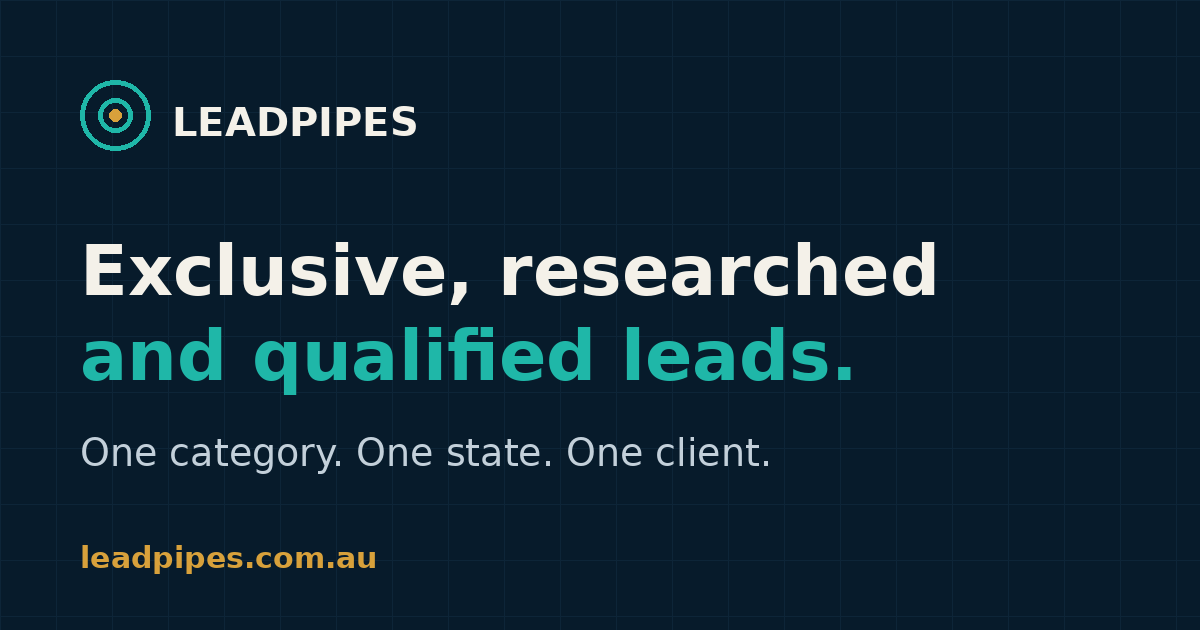
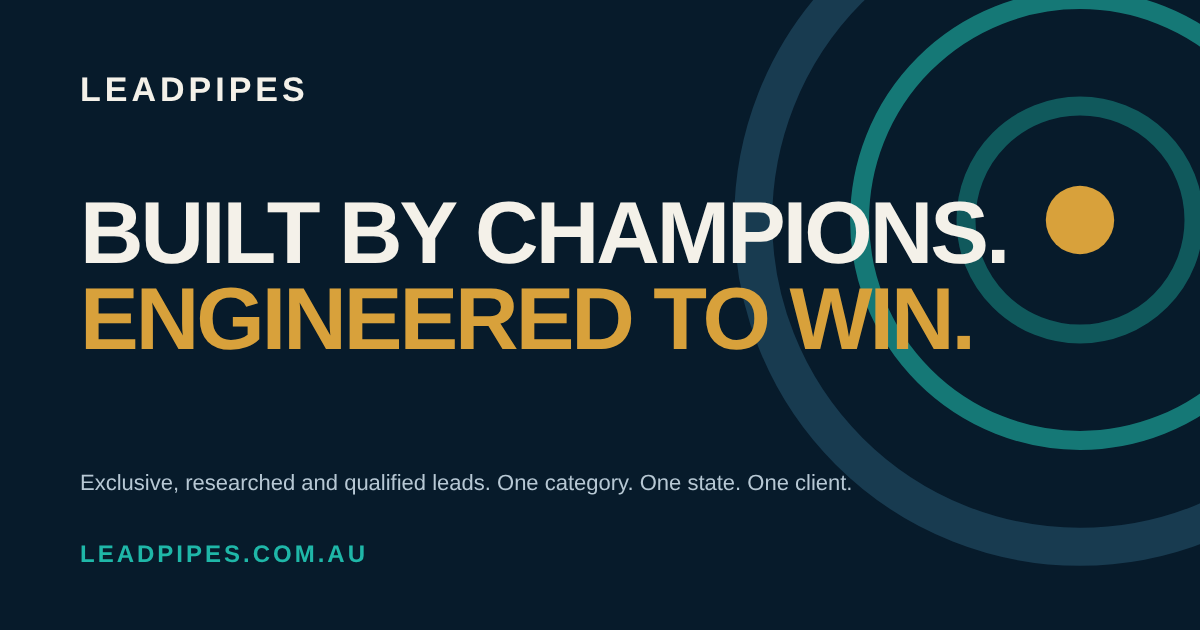
Make the mission statement 'Built by champions. Engineered to win.' the lead of the site: top bar on every page, hero, mission section, page title and share image; homepage founder line reworded
Claude-Session: https://claude.ai/code/session_01RcfpsSNJZTtoGcThxQHfeA

diff --git a/index.html b/index.html
@@ -3,22 +3,22 @@
 <head>
 <meta charset="utf-8">
 <meta name="viewport" content="width=device-width,initial-scale=1">
-<title>LeadPipes | Exclusive Lead Generation for Australian Businesses</title>
+<title>LeadPipes | Built by Champions. Engineered to Win. Exclusive Leads</title>
 <meta name="description" content="Exclusive, researched and qualified leads for Australian businesses that know how to close. One category, one state, one client. Built by champions. Engineered to win.">
 <meta name="robots" content="index,follow">
 <link rel="canonical" href="https://leadpipes.com.au/">
 <meta property="og:type" content="website">
 <meta property="og:locale" content="en_AU">
 <meta property="og:site_name" content="LeadPipes">
-<meta property="og:title" content="LeadPipes | Exclusive Lead Generation for Australian Businesses">
+<meta property="og:title" content="LeadPipes | Built by Champions. Engineered to Win. Exclusive Leads">
 <meta property="og:description" content="Exclusive, researched and qualified leads for Australian businesses that know how to close. One category, one state, one client. Built by champions. Engineered to win.">
 <meta property="og:url" content="https://leadpipes.com.au/">
 <meta property="og:image" content="https://leadpipes.com.au/assets/og-image.png">
 <meta property="og:image:width" content="1200">
 <meta property="og:image:height" content="630">
-<meta property="og:image:alt" content="LeadPipes. Exclusive, researched and qualified leads. One category, one state, one client.">
+<meta property="og:image:alt" content="LeadPipes. Built by champions. Engineered to win. Exclusive, researched and qualified leads. One category, one state, one client.">
 <meta name="twitter:card" content="summary_large_image">
-<meta name="twitter:title" content="LeadPipes | Exclusive Lead Generation for Australian Businesses">
+<meta name="twitter:title" content="LeadPipes | Built by Champions. Engineered to Win. Exclusive Leads">
 <meta name="twitter:description" content="Exclusive, researched and qualified leads for Australian businesses that know how to close. One category, one state, one client. Built by champions. Engineered to win.">
 <meta name="twitter:image" content="https://leadpipes.com.au/assets/og-image.png">
 <meta name="theme-color" content="#071b2b">
@@ -30,6 +30,7 @@
 <body>
 <a class="skip" href="#main">Skip to content</a>
 <header class="nav">
+  <div class="mission-bar"><span>Built by champions.</span> <span class="accent">Engineered to win.</span></div>
   <div class="wrap nav-in">
     <a class="logo" href="/" aria-label="LeadPipes home">
       <svg viewBox="0 0 34 34" aria-hidden="true" focusable="false"><circle cx="17" cy="17" r="15" fill="none" stroke="#1fb7a8" stroke-width="2"/><circle cx="17" cy="17" r="8" fill="none" stroke="#1fb7a8" stroke-width="2"/><circle cx="17" cy="17" r="2.6" fill="#d8a13b"/></svg>
@@ -47,6 +48,7 @@
 <main id="main">
 <section class="hero">
   <div class="wrap">
+    <p class="mission-hero">Built by champions.<span class="accent">Engineered to win.</span></p>
     <p class="eyebrow">Exclusive lead generation for Australian businesses</p>
     <h1>We don&rsquo;t sell <span class="dim">lists.</span><br>We create <span class="accent">opportunity.</span></h1>
     <p class="lead">Exclusive lead generation for Australian businesses. One category, one state, one client, with every lead researched, qualified and handed over with the context to close. No shared leads. No volume theatre.</p>
@@ -56,6 +58,17 @@
     </div>
     <p class="hero-link"><a class="textlink" href="/how-it-works.html">See how a handover works</a></p>
     <div class="assure"><span>Exclusive per category and state</span><span>Reviewed before handover</span><span>Built around your ideal customer</span></div>
+  </div>
+</section>
+
+<section class="mission" id="mission">
+  <div class="wrap">
+    <p class="eyebrow">Our mission</p>
+    <h2 class="mission-line">Built by champions.<span class="accent">Engineered to win.</span></h2>
+    <div class="two">
+      <p>It is not a slogan. It is the standard we run LeadPipes to, and it is what sets us apart. Very few businesses are led by someone who has competed at the highest level and then carried that discipline into commercial work.</p>
+      <p>Elite performance is a system: a clear standard, honest measurement and the discipline to hold it every day. Darren Harry OAM, an ex-professional cyclist, built LeadPipes on that system. It shapes how we qualify, how we hand over and the targets we hold ourselves to.</p>
+    </div>
   </div>
 </section>
 
@@ -153,7 +166,7 @@
 
 <section class="white">
   <div class="wrap founder">
-    <p><b>Run by Darren Harry OAM.</b> Paralympic gold medallist and four-time World Champion cyclist, with nine years in commercial renewables sales. You deal with the person whose name is on the business.</p>
+    <p><b>Run by Darren Harry OAM.</b> Former professional cyclist who holds himself and his team to very high standards, with nine years in commercial renewables sales. You deal with the person whose name is on the business.</p>
     <a class="btn" href="/book.html">Book a discovery call</a>
   </div>
 </section>

diff --git a/src/pages/index.html b/src/pages/index.html
@@ -1,5 +1,6 @@
 <section class="hero">
   <div class="wrap">
+    <p class="mission-hero">Built by champions.<span class="accent">Engineered to win.</span></p>
     <p class="eyebrow">Exclusive lead generation for Australian businesses</p>
     <h1>We don&rsquo;t sell <span class="dim">lists.</span><br>We create <span class="accent">opportunity.</span></h1>
     <p class="lead">Exclusive lead generation for Australian businesses. One category, one state, one client, with every lead researched, qualified and handed over with the context to close. No shared leads. No volume theatre.</p>
@@ -9,6 +10,17 @@
     </div>
     <p class="hero-link"><a class="textlink" href="/how-it-works.html">See how a handover works</a></p>
     <div class="assure"><span>Exclusive per category and state</span><span>Reviewed before handover</span><span>Built around your ideal customer</span></div>
+  </div>
+</section>
+
+<section class="mission" id="mission">
+  <div class="wrap">
+    <p class="eyebrow">Our mission</p>
+    <h2 class="mission-line">Built by champions.<span class="accent">Engineered to win.</span></h2>
+    <div class="two">
+      <p>It is not a slogan. It is the standard we run LeadPipes to, and it is what sets us apart. Very few businesses are led by someone who has competed at the highest level and then carried that discipline into commercial work.</p>
+      <p>Elite performance is a system: a clear standard, honest measurement and the discipline to hold it every day. Darren Harry OAM, an ex-professional cyclist, built LeadPipes on that system. It shapes how we qualify, how we hand over and the targets we hold ourselves to.</p>
+    </div>
   </div>
 </section>
 
@@ -103,7 +115,7 @@
 
 <section class="white">
   <div class="wrap founder">
-    <p><b>Run by Darren Harry OAM.</b> Paralympic gold medallist and four-time World Champion cyclist, with nine years in commercial renewables sales. You deal with the person whose name is on the business.</p>
+    <p><b>Run by Darren Harry OAM.</b> Former professional cyclist who holds himself and his team to very high standards, with nine years in commercial renewables sales. You deal with the person whose name is on the business.</p>
     <a class="btn" href="/book.html">Book a discovery call</a>
   </div>
 </section>

diff --git a/lp/kitchens-bathrooms-renovations/index.html b/lp/kitchens-bathrooms-renovations/index.html
@@ -16,7 +16,7 @@
 <meta property="og:image" content="https://leadpipes.com.au/assets/og-image.png">
 <meta property="og:image:width" content="1200">
 <meta property="og:image:height" content="630">
-<meta property="og:image:alt" content="LeadPipes. Exclusive, researched and qualified leads. One category, one state, one client.">
+<meta property="og:image:alt" content="LeadPipes. Built by champions. Engineered to win. Exclusive, researched and qualified leads. One category, one state, one client.">
 <meta name="twitter:card" content="summary_large_image">
 <meta name="twitter:title" content="Lead Generation for Kitchen, Bathroom and Renovation Businesses | LeadPipes">
 <meta name="twitter:description" content="LeadPipes works for businesses that sell kitchens, bathrooms and renovations. Business-to-business lead generation, with exclusivity agreed per category, state and client.">
@@ -29,6 +29,7 @@
 <body>
 <a class="skip" href="#main">Skip to content</a>
 <header class="nav">
+  <div class="mission-bar"><span>Built by champions.</span> <span class="accent">Engineered to win.</span></div>
   <div class="wrap nav-in">
     <a class="logo" href="/" aria-label="LeadPipes home">
       <svg viewBox="0 0 34 34" aria-hidden="true" focusable="false"><circle cx="17" cy="17" r="15" fill="none" stroke="#1fb7a8" stroke-width="2"/><circle cx="17" cy="17" r="8" fill="none" stroke="#1fb7a8" stroke-width="2"/><circle cx="17" cy="17" r="2.6" fill="#d8a13b"/></svg>

diff --git a/lp/exclusive-leads/index.html b/lp/exclusive-leads/index.html
@@ -16,7 +16,7 @@
 <meta property="og:image" content="https://leadpipes.com.au/assets/og-image.png">
 <meta property="og:image:width" content="1200">
 <meta property="og:image:height" content="630">
-<meta property="og:image:alt" content="LeadPipes. Exclusive, researched and qualified leads. One category, one state, one client.">
+<meta property="og:image:alt" content="LeadPipes. Built by champions. Engineered to win. Exclusive, researched and qualified leads. One category, one state, one client.">
 <meta name="twitter:card" content="summary_large_image">
 <meta name="twitter:title" content="Exclusive Lead Generation for Australian Businesses | LeadPipes">
 <meta name="twitter:description" content="Exclusive, researched and qualified leads for Australian businesses. One client per category per state. Book a discovery call to check whether yours is open.">
@@ -29,6 +29,7 @@
 <body>
 <a class="skip" href="#main">Skip to content</a>
 <header class="nav">
+  <div class="mission-bar"><span>Built by champions.</span> <span class="accent">Engineered to win.</span></div>
   <div class="wrap nav-in">
     <a class="logo" href="/" aria-label="LeadPipes home">
       <svg viewBox="0 0 34 34" aria-hidden="true" focusable="false"><circle cx="17" cy="17" r="15" fill="none" stroke="#1fb7a8" stroke-width="2"/><circle cx="17" cy="17" r="8" fill="none" stroke="#1fb7a8" stroke-width="2"/><circle cx="17" cy="17" r="2.6" fill="#d8a13b"/></svg>

diff --git a/lp/commercial-solar/index.html b/lp/commercial-solar/index.html
@@ -16,7 +16,7 @@
 <meta property="og:image" content="https://leadpipes.com.au/assets/og-image.png">
 <meta property="og:image:width" content="1200">
 <meta property="og:image:height" content="630">
-<meta property="og:image:alt" content="LeadPipes. Exclusive, researched and qualified leads. One category, one state, one client.">
+<meta property="og:image:alt" content="LeadPipes. Built by champions. Engineered to win. Exclusive, researched and qualified leads. One category, one state, one client.">
 <meta name="twitter:card" content="summary_large_image">
 <meta name="twitter:title" content="Commercial Solar and Energy Lead Generation for Installers | LeadPipes">
 <meta name="twitter:description" content="Qualified commercial and industrial solar opportunities for installers who can quote and close. Exclusivity is agreed per category, state and client.">
@@ -29,6 +29,7 @@
 <body>
 <a class="skip" href="#main">Skip to content</a>
 <header class="nav">
+  <div class="mission-bar"><span>Built by champions.</span> <span class="accent">Engineered to win.</span></div>
   <div class="wrap nav-in">
     <a class="logo" href="/" aria-label="LeadPipes home">
       <svg viewBox="0 0 34 34" aria-hidden="true" focusable="false"><circle cx="17" cy="17" r="15" fill="none" stroke="#1fb7a8" stroke-width="2"/><circle cx="17" cy="17" r="8" fill="none" stroke="#1fb7a8" stroke-width="2"/><circle cx="17" cy="17" r="2.6" fill="#d8a13b"/></svg>

diff --git a/lp/commercial-fitout-construction/index.html b/lp/commercial-fitout-construction/index.html
@@ -16,7 +16,7 @@
 <meta property="og:image" content="https://leadpipes.com.au/assets/og-image.png">
 <meta property="og:image:width" content="1200">
 <meta property="og:image:height" content="630">
-<meta property="og:image:alt" content="LeadPipes. Exclusive, researched and qualified leads. One category, one state, one client.">
+<meta property="og:image:alt" content="LeadPipes. Built by champions. Engineered to win. Exclusive, researched and qualified leads. One category, one state, one client.">
 <meta name="twitter:card" content="summary_large_image">
 <meta name="twitter:title" content="Lead Generation for Commercial Fit-out and Construction | LeadPipes">
 <meta name="twitter:description" content="Qualified project opportunities for commercial fit-out, construction and trade contractors. Exclusivity is agreed per category, state and client.">
@@ -29,6 +29,7 @@
 <body>
 <a class="skip" href="#main">Skip to content</a>
 <header class="nav">
+  <div class="mission-bar"><span>Built by champions.</span> <span class="accent">Engineered to win.</span></div>
   <div class="wrap nav-in">
     <a class="logo" href="/" aria-label="LeadPipes home">
       <svg viewBox="0 0 34 34" aria-hidden="true" focusable="false"><circle cx="17" cy="17" r="15" fill="none" stroke="#1fb7a8" stroke-width="2"/><circle cx="17" cy="17" r="8" fill="none" stroke="#1fb7a8" stroke-width="2"/><circle cx="17" cy="17" r="2.6" fill="#d8a13b"/></svg>

diff --git a/lp/b2b-services/index.html b/lp/b2b-services/index.html
@@ -16,7 +16,7 @@
 <meta property="og:image" content="https://leadpipes.com.au/assets/og-image.png">
 <meta property="og:image:width" content="1200">
 <meta property="og:image:height" content="630">
-<meta property="og:image:alt" content="LeadPipes. Exclusive, researched and qualified leads. One category, one state, one client.">
+<meta property="og:image:alt" content="LeadPipes. Built by champions. Engineered to win. Exclusive, researched and qualified leads. One category, one state, one client.">
 <meta name="twitter:card" content="summary_large_image">
 <meta name="twitter:title" content="Lead Generation for B2B and Professional Services Firms | LeadPipes">
 <meta name="twitter:description" content="Qualified decision-maker conversations for B2B and professional services firms. Exclusivity is agreed per category, state and client.">
@@ -29,6 +29,7 @@
 <body>
 <a class="skip" href="#main">Skip to content</a>
 <header class="nav">
+  <div class="mission-bar"><span>Built by champions.</span> <span class="accent">Engineered to win.</span></div>
   <div class="wrap nav-in">
     <a class="logo" href="/" aria-label="LeadPipes home">
       <svg viewBox="0 0 34 34" aria-hidden="true" focusable="false"><circle cx="17" cy="17" r="15" fill="none" stroke="#1fb7a8" stroke-width="2"/><circle cx="17" cy="17" r="8" fill="none" stroke="#1fb7a8" stroke-width="2"/><circle cx="17" cy="17" r="2.6" fill="#d8a13b"/></svg>

diff --git a/faq.html b/faq.html
@@ -16,7 +16,7 @@
 <meta property="og:image" content="https://leadpipes.com.au/assets/og-image.png">
 <meta property="og:image:width" content="1200">
 <meta property="og:image:height" content="630">
-<meta property="og:image:alt" content="LeadPipes. Exclusive, researched and qualified leads. One category, one state, one client.">
+<meta property="og:image:alt" content="LeadPipes. Built by champions. Engineered to win. Exclusive, researched and qualified leads. One category, one state, one client.">
 <meta name="twitter:card" content="summary_large_image">
 <meta name="twitter:title" content="Frequently Asked Questions | LeadPipes">
 <meta name="twitter:description" content="Plain answers on exclusivity, what qualified means, replacements, how leads are sourced, the Spam Act, what LeadPipes does not do, and how to start.">
@@ -30,6 +30,7 @@
 <body>
 <a class="skip" href="#main">Skip to content</a>
 <header class="nav">
+  <div class="mission-bar"><span>Built by champions.</span> <span class="accent">Engineered to win.</span></div>
   <div class="wrap nav-in">
     <a class="logo" href="/" aria-label="LeadPipes home">
       <svg viewBox="0 0 34 34" aria-hidden="true" focusable="false"><circle cx="17" cy="17" r="15" fill="none" stroke="#1fb7a8" stroke-width="2"/><circle cx="17" cy="17" r="8" fill="none" stroke="#1fb7a8" stroke-width="2"/><circle cx="17" cy="17" r="2.6" fill="#d8a13b"/></svg>

diff --git a/apply.html b/apply.html
@@ -16,7 +16,7 @@
 <meta property="og:image" content="https://leadpipes.com.au/assets/og-image.png">
 <meta property="og:image:width" content="1200">
 <meta property="og:image:height" content="630">
-<meta property="og:image:alt" content="LeadPipes. Exclusive, researched and qualified leads. One category, one state, one client.">
+<meta property="og:image:alt" content="LeadPipes. Built by champions. Engineered to win. Exclusive, researched and qualified leads. One category, one state, one client.">
 <meta name="twitter:card" content="summary_large_image">
 <meta name="twitter:title" content="Apply for a Territory | LeadPipes">
 <meta name="twitter:description" content="Tell us what you sell, where, and what you want from LeadPipes. If your category and state are open and the fit is strong, Darren replies personally.">
@@ -29,6 +29,7 @@
 <body>
 <a class="skip" href="#main">Skip to content</a>
 <header class="nav">
+  <div class="mission-bar"><span>Built by champions.</span> <span class="accent">Engineered to win.</span></div>
   <div class="wrap nav-in">
     <a class="logo" href="/" aria-label="LeadPipes home">
       <svg viewBox="0 0 34 34" aria-hidden="true" focusable="false"><circle cx="17" cy="17" r="15" fill="none" stroke="#1fb7a8" stroke-width="2"/><circle cx="17" cy="17" r="8" fill="none" stroke="#1fb7a8" stroke-width="2"/><circle cx="17" cy="17" r="2.6" fill="#d8a13b"/></svg>

diff --git a/how-it-works.html b/how-it-works.html
@@ -16,7 +16,7 @@
 <meta property="og:image" content="https://leadpipes.com.au/assets/og-image.png">
 <meta property="og:image:width" content="1200">
 <meta property="og:image:height" content="630">
-<meta property="og:image:alt" content="LeadPipes. Exclusive, researched and qualified leads. One category, one state, one client.">
+<meta property="og:image:alt" content="LeadPipes. Built by champions. Engineered to win. Exclusive, researched and qualified leads. One category, one state, one client.">
 <meta name="twitter:card" content="summary_large_image">
 <meta name="twitter:title" content="How a LeadPipes Handover Works | LeadPipes">
 <meta name="twitter:description" content="See what you receive with every lead, an illustrative sample lead pack, and the performance targets LeadPipes measures itself against.">
@@ -29,6 +29,7 @@
 <body>
 <a class="skip" href="#main">Skip to content</a>
 <header class="nav">
+  <div class="mission-bar"><span>Built by champions.</span> <span class="accent">Engineered to win.</span></div>
   <div class="wrap nav-in">
     <a class="logo" href="/" aria-label="LeadPipes home">
       <svg viewBox="0 0 34 34" aria-hidden="true" focusable="false"><circle cx="17" cy="17" r="15" fill="none" stroke="#1fb7a8" stroke-width="2"/><circle cx="17" cy="17" r="8" fill="none" stroke="#1fb7a8" stroke-width="2"/><circle cx="17" cy="17" r="2.6" fill="#d8a13b"/></svg>

diff --git a/privacy.html b/privacy.html
@@ -16,7 +16,7 @@
 <meta property="og:image" content="https://leadpipes.com.au/assets/og-image.png">
 <meta property="og:image:width" content="1200">
 <meta property="og:image:height" content="630">
-<meta property="og:image:alt" content="LeadPipes. Exclusive, researched and qualified leads. One category, one state, one client.">
+<meta property="og:image:alt" content="LeadPipes. Built by champions. Engineered to win. Exclusive, researched and qualified leads. One category, one state, one client.">
 <meta name="twitter:card" content="summary_large_image">
 <meta name="twitter:title" content="Privacy Policy | LeadPipes">
 <meta name="twitter:description" content="How LeadPipes collects, uses, shares and protects personal information, including lead details shared with clients.">
@@ -29,6 +29,7 @@
 <body>
 <a class="skip" href="#main">Skip to content</a>
 <header class="nav">
+  <div class="mission-bar"><span>Built by champions.</span> <span class="accent">Engineered to win.</span></div>
   <div class="wrap nav-in">
     <a class="logo" href="/" aria-label="LeadPipes home">
       <svg viewBox="0 0 34 34" aria-hidden="true" focusable="false"><circle cx="17" cy="17" r="15" fill="none" stroke="#1fb7a8" stroke-width="2"/><circle cx="17" cy="17" r="8" fill="none" stroke="#1fb7a8" stroke-width="2"/><circle cx="17" cy="17" r="2.6" fill="#d8a13b"/></svg>

diff --git a/book.html b/book.html
@@ -16,7 +16,7 @@
 <meta property="og:image" content="https://leadpipes.com.au/assets/og-image.png">
 <meta property="og:image:width" content="1200">
 <meta property="og:image:height" content="630">
-<meta property="og:image:alt" content="LeadPipes. Exclusive, researched and qualified leads. One category, one state, one client.">
+<meta property="og:image:alt" content="LeadPipes. Built by champions. Engineered to win. Exclusive, researched and qualified leads. One category, one state, one client.">
 <meta name="twitter:card" content="summary_large_image">
 <meta name="twitter:title" content="Book a Discovery Call | LeadPipes">
 <meta name="twitter:description" content="Book a 30 minute discovery call with Darren Harry to see whether your category and state are open.">
@@ -29,6 +29,7 @@
 <body>
 <a class="skip" href="#main">Skip to content</a>
 <header class="nav">
+  <div class="mission-bar"><span>Built by champions.</span> <span class="accent">Engineered to win.</span></div>
   <div class="wrap nav-in">
     <a class="logo" href="/" aria-label="LeadPipes home">
       <svg viewBox="0 0 34 34" aria-hidden="true" focusable="false"><circle cx="17" cy="17" r="15" fill="none" stroke="#1fb7a8" stroke-width="2"/><circle cx="17" cy="17" r="8" fill="none" stroke="#1fb7a8" stroke-width="2"/><circle cx="17" cy="17" r="2.6" fill="#d8a13b"/></svg>
